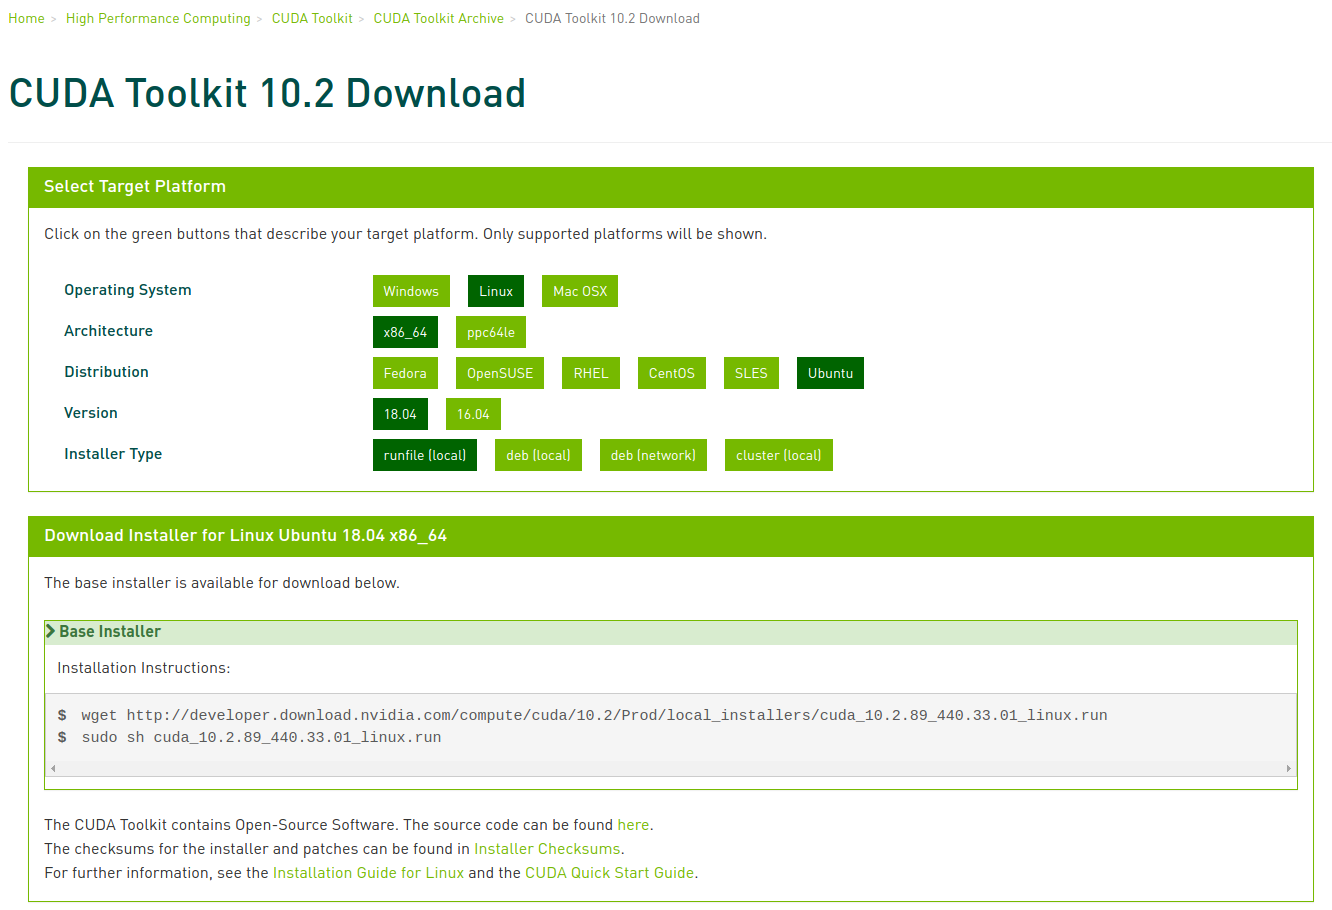
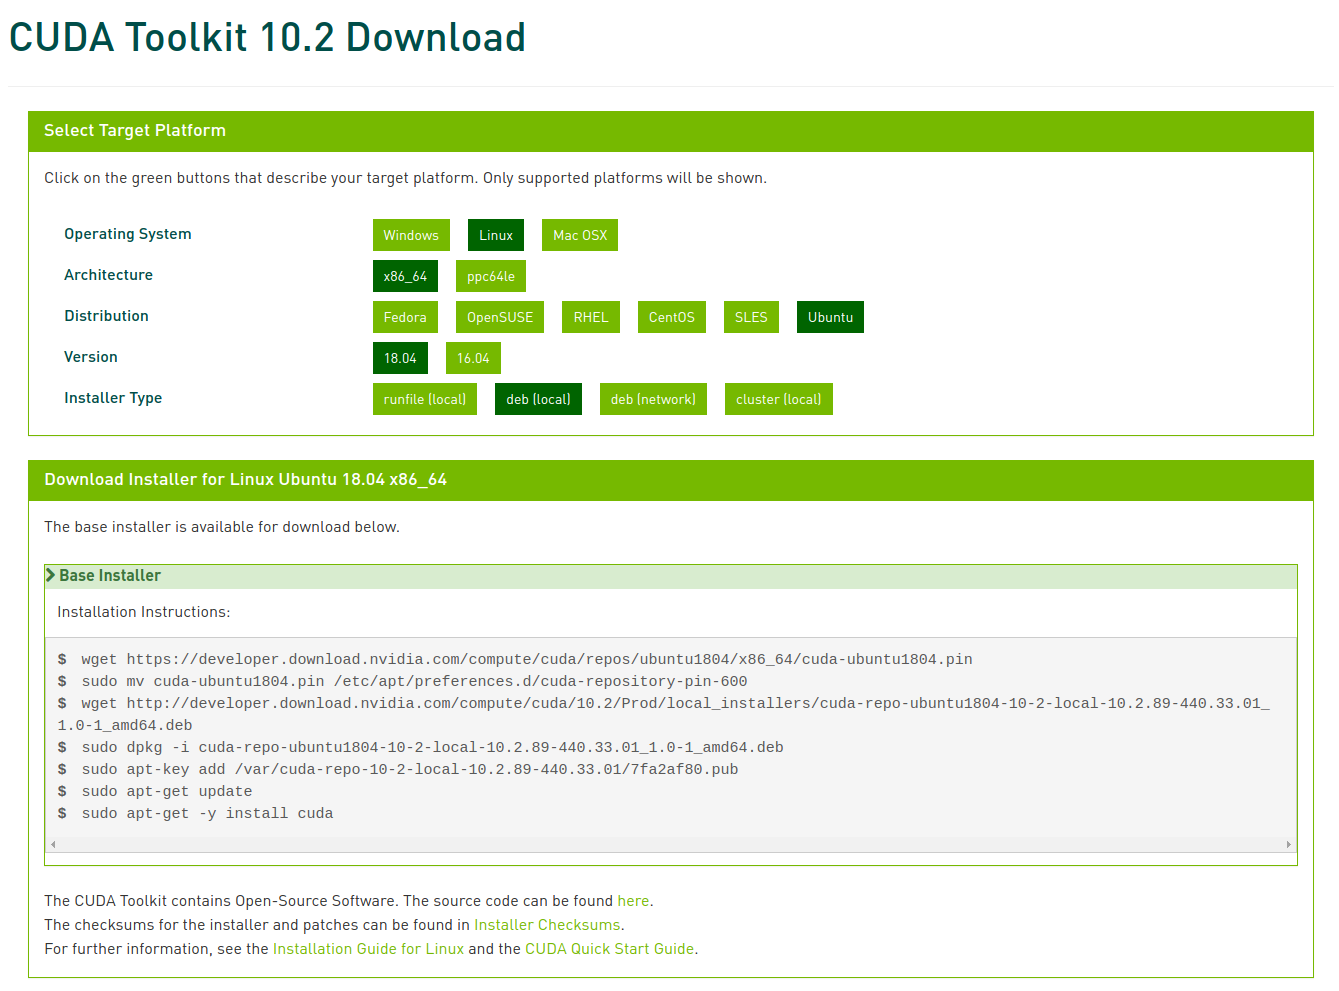
update README

Changed region(s): [[0.0, 0.0, 0.985, 1.0]]

diff --git a/README.md b/README.md
@@ -21,9 +21,9 @@ The custom data set being trained consists of two categories, they are Kleinladu
 - [cuDNN >= 7.6.5](#jump3): [https://developer.nvidia.com/rdp/cudnn-download](https://developer.nvidia.com/rdp/cudnn-download)
 - CMake >= 3.18.0: 
     ```bash
-    $ sudo apt purge cmake 
-    $ sudo snap install cmake --classic
-    $ hash –r  
+    $ wget https://github.com/Kitware/CMake/releases/download/v3.15.2/cmake-3.15.2.tar.gz
+    $ tar -zxvf cmake-3.15.2.tar.gz && cd cmake-3.15.2
+    $ ./bootstrap && make -j$(nproc) && make install 
     ```
 - OpenCV >= 3.2: `$ sudo apt install libopencv-dev`
 
@@ -32,6 +32,15 @@ The custom data set being trained consists of two categories, they are Kleinladu
 
 #### <span id="jump2">Install Cuda</span>
 ![](resources/2.png)
+    
+    $ wget https://developer.download.nvidia.com/compute/cuda/repos/ubuntu1804/x86_64/cuda-ubuntu1804.pin 
+    $ sudo mv cuda-ubuntu1804.pin /etc/apt/preferences.d/cuda-repository-pin-600 
+    $ wget http://developer.download.nvidia.com/compute/cuda/10.2/Prod/local_installers/cuda-repo-ubuntu1804-10-2-local-10.2.89-440.33.01_1.0-1_amd64.deb 
+    $ sudo dpkg -i cuda-repo-ubuntu1804-10-2-local-10.2.89-440.33.01_1.0-1_amd64.deb 
+    $ sudo apt-key add /var/cuda-repo-10-2-local-10.2.89-440.33.01/7fa2af80.pub 
+    $ sudo apt-get update 
+    $ sudo apt-get -y install cuda 
+   
 
 #### <span id="jump3">Install cuDNN</span>
 ![](resources/3.png)
